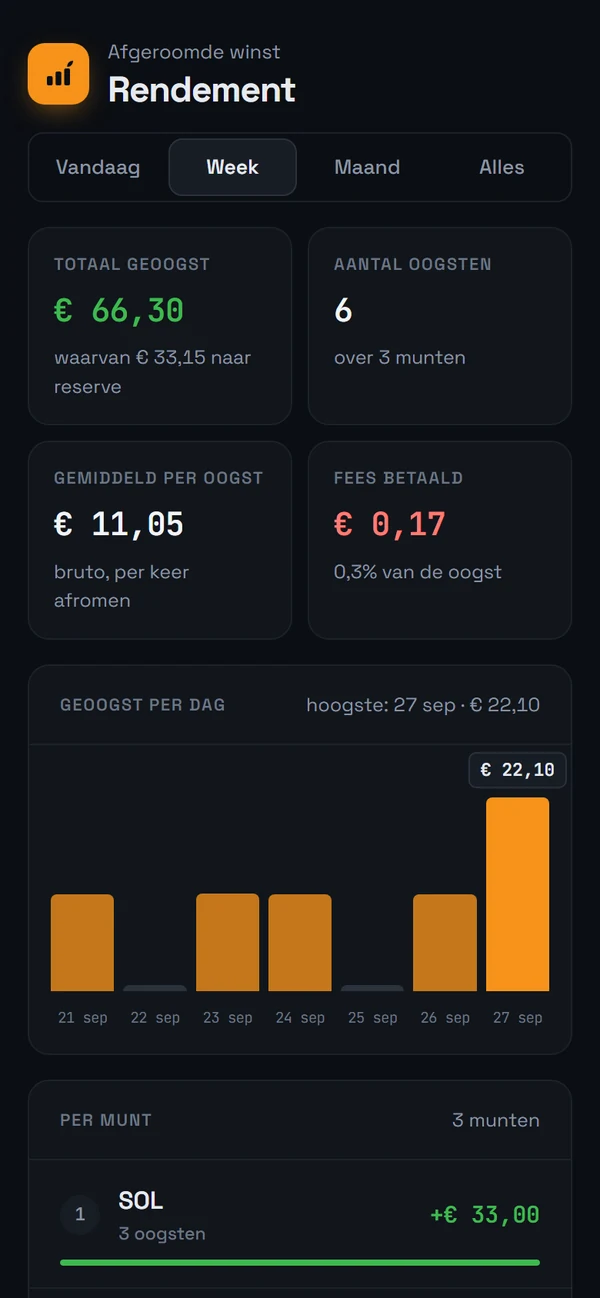
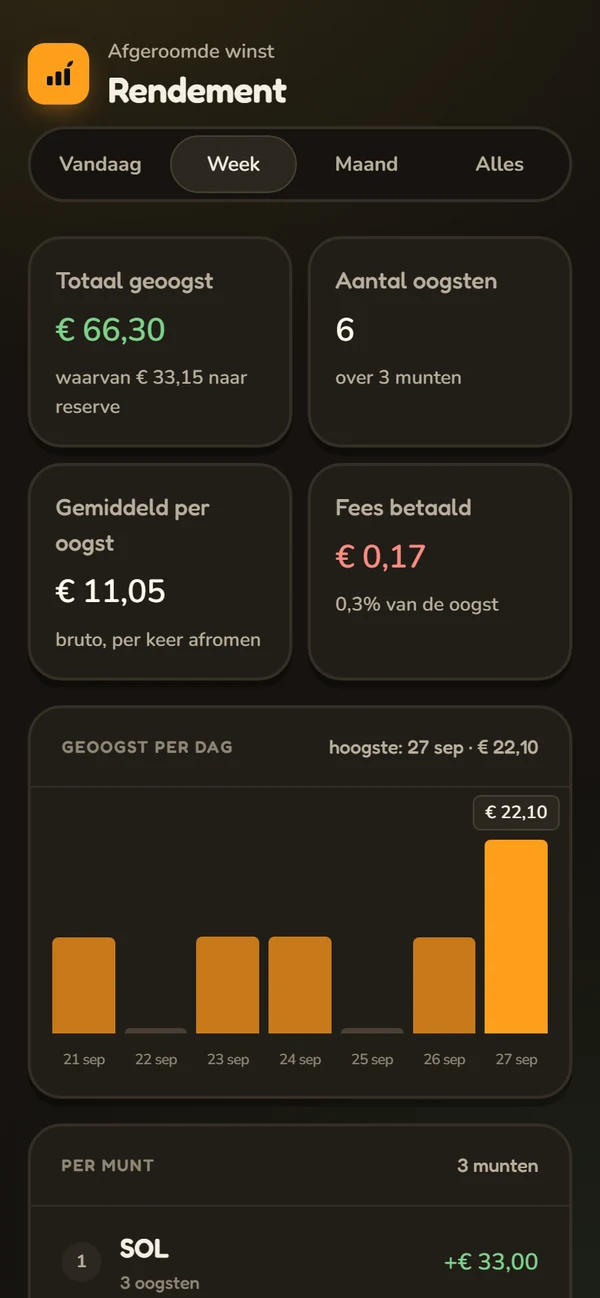
README, installatiehulp en projectsite bijgewerkt: moestuin-stijl, Afgeroomd-pagina, nieuwe dashboardkaarten en screenshots

diff --git a/docs/index.html b/docs/index.html
@@ -5,7 +5,7 @@
 <meta name="viewport" content="width=device-width, initial-scale=1.0">
 <meta name="color-scheme" content="dark">
 <title>Profit Harvester: gratis Bitvavo-bot die alleen je winst oogst</title>
-<meta name="description" content="Gratis, open-source tradingbot voor Bitvavo. Laat je munten staan en verkoopt automatisch alleen de winst. Met dashboard, Telegram, demo-modus en een reserve in BTC of ETH.">
+<meta name="description" content="Gratis, open-source tradingbot voor Bitvavo. Laat je munten staan en verkoopt automatisch alleen de winst. Met dashboard, Telegram, demo-modus en een reserve die je zelf verdeelt over BTC, ETH, BNB, SOL en XRP.">
 <meta name="theme-color" content="#0B0E13">
 <link rel="icon" href="img/favicon.svg" type="image/svg+xml">
 <link rel="icon" href="img/icon-192.png" sizes="192x192">
@@ -144,7 +144,7 @@ h2 { font-size: clamp(1.6rem, 3.4vw, 2.3rem); font-weight: 700; margin-bottom: 1
 }
 
 /* ---------- screenshots ---------- */
-.galerij { display: grid; grid-template-columns: repeat(4, 1fr); gap: 16px; margin-top: 34px; }
+.galerij { display: grid; grid-template-columns: repeat(5, 1fr); gap: 14px; margin-top: 34px; }
 .galerij figure { background: var(--surface); border: 1px solid var(--line); border-radius: 18px; padding: 8px; }
 .galerij img { border-radius: 14px; }
 .galerij figcaption { text-align: center; color: var(--dim); font-size: 0.72rem; font-weight: 600; padding: 10px 0 4px; text-transform: uppercase; letter-spacing: .1em; font-family: var(--mono); }
@@ -271,7 +271,7 @@ footer a { color: var(--dim); }
       </div>
     </div>
     <div class="telefoon">
-      <img src="img/dashboard-mobiel.webp" width="600" height="1298" alt="Het dashboard van Profit Harvester op een telefoon, met totale waarde, vrije cash, belegd, de reserve in BTC en ETH en een grafiek">
+      <img src="img/dashboard-mobiel.webp" width="600" height="1298" alt="Het dashboard van Profit Harvester op een telefoon, met totale waarde, vrije cash, potten, de afgeroomde reserve en een grafiek">
     </div>
   </div>
 </header>
@@ -327,7 +327,7 @@ footer a { color: var(--dim); }
       <ol class="stappen">
         <li><b>Jij kiest munten en een budget</b>Bijvoorbeeld SOL met €250. Heb je de munt al, dan telt je saldo gewoon mee.</li>
         <li><b>Doel gehaald? Dan volgt de bot de top</b>Staat de munt €11 netto in de winst, dan houdt de bot de hoogste koers bij.</li>
-        <li><b>1% terugval: alleen de winst wordt verkocht</b>Je €250 blijft belegd. De winst gaat voor de helft naar je reserve in BTC of ETH. Zakt de winst onderweg terug tot €10,50, dan verkoopt hij meteen: zo is de helft altijd groot genoeg voor je reserve.</li>
+        <li><b>1% terugval: alleen de winst wordt verkocht</b>Je €250 blijft belegd. De winst gaat voor de helft naar je reserve in grote munten. Zakt de winst onderweg terug tot €10,50, dan verkoopt hij meteen: zo is de helft altijd groot genoeg voor je reserve.</li>
         <li><b>En dat herhaalt zich</b>Elke keer dat de munt weer stijgt, oogst de bot opnieuw.</li>
       </ol>
     </div>
@@ -379,9 +379,10 @@ footer a { color: var(--dim); }
     <div class="raster r3" style="margin-top:16px">
       <div class="kaart">
         <div class="icoon"><svg viewBox="0 0 24 24" fill="none" stroke="currentColor" stroke-width="1.8" stroke-linecap="round" stroke-linejoin="round"><circle cx="12" cy="12" r="8.5"/><path d="M10 7.7v8.6"/><path d="M10 7.7h2.6a2 2 0 0 1 0 4H10m0 0h2.9a2 2 0 0 1 0 4H10"/></svg></div>
-        <h3>Reserve in BTC of ETH</h3>
-        <p>De helft van elke oogst gaat automatisch naar je spaarpot. Wissel per maand tussen Bitcoin en Ethereum; je
-          bestaande reserve blijft staan.</p>
+        <h3>Afgeroomd: je reserve verdelen</h3>
+        <p>De helft van elke oogst gaat naar je spaarpot in grote munten: BTC, ETH, BNB, SOL, XRP of je eigen keuze.
+          Jij kiest de verdeling in procenten; de bot koopt steeds de munt die het verst achterloopt. Met één knop
+          herbalanceer je, en je ziet per munt je resultaat.</p>
       </div>
       <div class="kaart">
         <div class="icoon groen"><svg viewBox="0 0 24 24" fill="none" stroke="currentColor" stroke-width="1.8" stroke-linecap="round" stroke-linejoin="round"><path d="M22 2 11 13"/><path d="M22 2 15 22l-4-9-9-4 20-7Z"/></svg></div>
@@ -439,12 +440,13 @@ footer a { color: var(--dim); }
 
     <div class="galerij">
       <figure><img src="img/dashboard-mobiel.webp" width="600" height="1298" loading="lazy" alt="Dashboard"><figcaption>Dashboard</figcaption></figure>
-      <figure><img src="img/potten-mobiel.webp" width="600" height="1298" loading="lazy" alt="Potten-pagina met hoofdlijst, pot en dalpot"><figcaption>Potten</figcaption></figure>
+      <figure><img src="img/potten-mobiel.webp" width="600" height="1298" loading="lazy" alt="Potten-pagina met het totaal van de potten, de pot en de dalpot"><figcaption>Potten</figcaption></figure>
       <figure><img src="img/rendement-mobiel.webp" width="600" height="1298" loading="lazy" alt="Rendement per week met oogsten per dag"><figcaption>Rendement</figcaption></figure>
-      <figure><img src="img/beheren-mobiel.webp" width="600" height="1298" loading="lazy" alt="Beheren-pagina met knoppen voor de hoofdlijst en reserve"><figcaption>Beheren</figcaption></figure>
+      <figure><img src="img/afgeroomd-mobiel.webp" width="600" height="1298" loading="lazy" alt="Afgeroomd-pagina met de verdeling van de reserve, doelen en resultaat per munt"><figcaption>Afgeroomd</figcaption></figure>
+      <figure><img src="img/beheren-mobiel.webp" width="600" height="1298" loading="lazy" alt="Beheren-pagina met knoppen voor de hoofdlijst, pot en dalpot"><figcaption>Beheren</figcaption></figure>
     </div>
     <div class="desktopshot">
-      <img src="img/dashboard-desktop.webp" width="1280" height="830" loading="lazy" alt="Het dashboard op een laptop: zijbalk met menu en status links, kaarten met totale waarde, cash, belegd en reserve, en een grafiek met stippen voor kopen en verkopen">
+      <img src="img/dashboard-desktop.webp" width="1280" height="830" loading="lazy" alt="Het dashboard op een laptop: zijbalk met menu en status links, kaarten met totale waarde, vrije cash, potten en afgeroomd, en een grafiek met stippen voor kopen en verkopen">
     </div>
     <p class="mid" style="color:var(--dimmer);font-size:.85rem;margin-top:12px">Alle bedragen op deze afbeeldingen zijn verzonnen.</p>
   </div>

diff --git a/README.md b/README.md
@@ -4,7 +4,7 @@
 
 🌐 **Website met uitleg en screenshots:** https://dokmannl.github.io/profit-harvester/
 
-De meeste tradingbots kopen een munt en verkopen hem later weer helemaal. Profit Harvester werkt andersom: jij kiest je munten en een budget per munt, en de bot verkoopt automatisch **alleen het deel boven je budget** zodra een munt genoeg gestegen is. Je positie blijft staan en kan steeds opnieuw winst opleveren. Een deel van die winst gaat automatisch naar een reserve in **Bitcoin of Ethereum**.
+De meeste tradingbots kopen een munt en verkopen hem later weer helemaal. Profit Harvester werkt andersom: jij kiest je munten en een budget per munt, en de bot verkoopt automatisch **alleen het deel boven je budget** zodra een munt genoeg gestegen is. Je positie blijft staan en kan steeds opnieuw winst opleveren. Een deel van die winst gaat automatisch naar een reserve in grote munten, zoals **Bitcoin, Ethereum, BNB, Solana en XRP**, verdeeld zoals jij wilt.
 
 Draait 24/7 op een Raspberry Pi of een gewone pc, met een eigen webdashboard (ook als app op je telefoon) en meldingen via Telegram.
 
@@ -22,9 +22,12 @@ Draait 24/7 op een Raspberry Pi of een gewone pc, met een eigen webdashboard (oo
 - **Kopen gebeurt nooit vanzelf.** Bij "Munt toevoegen" koopt de bot meteen voor het budget dat jij invult. Met "Alles Aanvullen" koopt hij in lagen bij munten die onder hun budget staan. Hij wacht op een bodem als de koers nog daalt, en legt per munt nooit meer in dan 1,5× het budget.
 - **Munt verwijderen** verkoopt je hele saldo van die munt; de opbrengst wordt vrije cash.
 
-### 💎 Reserve: BTC of ETH
-- **50%** van elke oogst gaat direct naar je reservemunt. Op het dashboard kies je **BTC of ETH**, en dat kun je per maand wisselen.
-- Je bestaande reserve blijft staan bij een wissel, en beide tellen mee in je totale waarde.
+### 💎 Afgeroomd: je reserve, verdeeld over grote munten
+- **50%** van elke oogst gaat direct naar je reserve. Standaard kun je kiezen uit **BTC, ETH, BNB, SOL en XRP**, en je kunt zelf munten toevoegen of weghalen (maximaal 10).
+- Op de **Afgeroomd**-pagina stel je per munt een **doelpercentage** in, bijvoorbeeld BTC 50%, ETH 30%, BNB 10%, SOL 5% en XRP 5%. Na elke oogst koopt de bot de munt die **het verst onder zijn doel** zit.
+- Met de knop **Herbalanceren** verkoopt de bot een deel van wat te zwaar is en koopt hij met precies die opbrengst wat te licht is. Je vrije cash en de potten blijven onaangeroerd, elke munt houdt een **minimum** (standaard €25), en je ziet vooraf precies wat er gebeurt.
+- Per munt zie je wat je erin hebt gestoken en wat het **resultaat** is, met een grafiek van het verloop. De telling kun je met één knop opnieuw laten beginnen.
+- Loopt de verdeling scheef (standaard meer dan 10 procentpunt), dan krijg je een **seintje via Telegram**. De bot herbalanceert nooit vanzelf.
 
 ### 🧪 Pot: de bot handelt zelf
 - Een apart potje waarin de bot zelf beweeglijke, goed verhandelde munten kiest, koopt, bijkoopt bij een dip en verkoopt.
@@ -35,7 +38,7 @@ Draait 24/7 op een Raspberry Pi of een gewone pc, met een eigen webdashboard (oo
 - Het risicovolste onderdeel, met een eigen noodstop.
 
 ### 📊 Dashboard en meldingen
-- Webdashboard met totale waarde, een grafiek met stippen voor elke aankoop en verkoop, posities, potten en rendement per periode. Op een laptop met een zijbalk, op je telefoon als app.
+- Webdashboard in een vrolijke **moestuin-stijl**: kaarten voor totale waarde, vrije cash, potten en je afgeroomde winst (met de munt waar de volgende oogst heen gaat), een grafiek met stippen voor elke aankoop en verkoop, posities met een plantje dat meegroeit naar het doel, en rendement per periode. Op een laptop met een zijbalk, op je telefoon als app.
 - **Status en pauzeknop**: zie of de bot draait, wanneer hij voor het laatst keek en hoe warm je Pi is. Met één knop zet je hem op pauze.
 - **Activiteit** als sorteerbare tabel met filters op koop/verkoop, bron en munt, en export naar CSV.
 - Alles te bedienen vanaf de **Beheren**-pagina, met een sprongbalk, inklapbare blokken en een bevestiging met de bedragen erbij bij elke actie.

diff --git a/INSTALLATIE.md b/INSTALLATIE.md
@@ -237,6 +237,8 @@ De echte administratie begint leeg. De demo-gegevens (`demo_*.json`) blijven apa
 
 > **Begin klein.** Voeg eerst één of twee munten toe met een laag budget. Kijk een paar dagen mee voor je meer inlegt.
 
+> **Je afgeroomde winst verdelen.** Standaard gaat de helft van elke oogst naar BTC. Op de pagina **Afgeroomd** stel je een verdeling in over BTC, ETH, BNB, SOL en XRP (of je eigen munten). Let op: de bot telt je **hele saldo** in die munten als reserve. Koop je die munten ook zelf, doe dat dan op een ander account of in een eigen wallet, anders kan *Herbalanceren* er ook van verkopen.
+
 ---
 
 ## 10. Dagelijks gebruik
@@ -316,6 +318,7 @@ Let op: zonder Docker luistert het dashboard standaard alleen op de computer zel
 | E-mail komt niet aan | Gebruik een app-wachtwoord, geen gewoon wachtwoord. Kijk ook in je spamfolder. |
 | Bitvavo weigert orders | Controleer of de API-sleutel het recht **Handelen** heeft, en of een eventuele IP-beperking klopt. |
 | Er wordt niets gekocht bij Aanvullen | Zie de *Veelgestelde vragen* op de uitlegpagina in het dashboard. |
-| BTC of ETH toevoegen lukt niet | Dat klopt: dat zijn reservemunten. Zie de uitlegpagina. |
+| Een munt toevoegen aan de hoofdlijst lukt niet | Die munt heeft waarschijnlijk een doel op de Afgeroomd-pagina. Zet hem daar op 0% of haal hem weg. |
+| Herbalanceren is grijs | De reserve is al in balans, of er staat te weinig in voor het minimum per munt. De reden staat onder de knop. |
 
 Meer uitleg over hoe de bot werkt staat op de **Uitleg**-pagina in het dashboard (rechtsonder **Help**).
